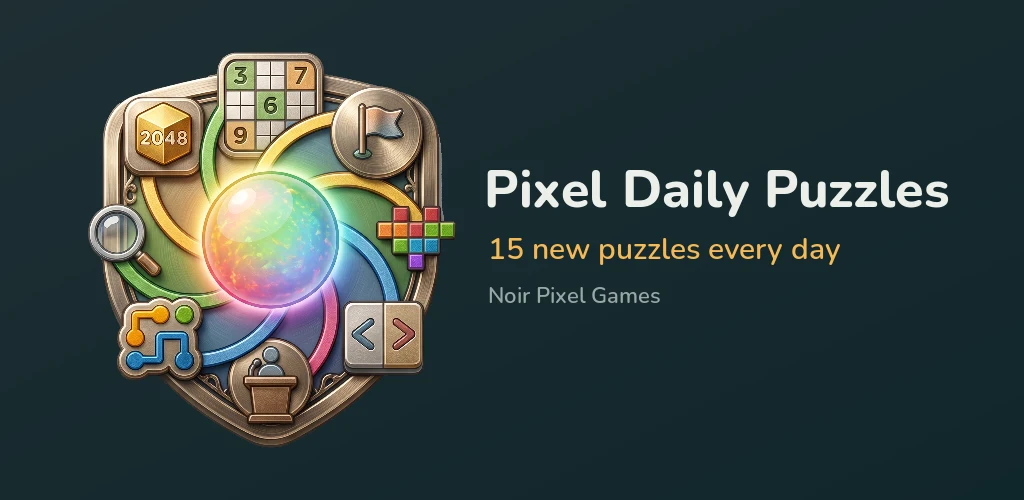
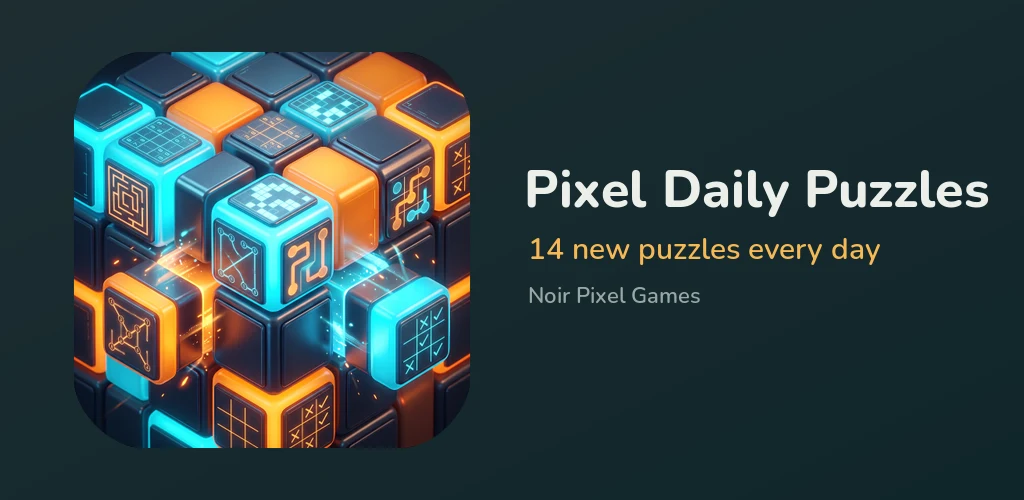
Test sayfalarını onardı, Daily Puzzles görselleri yenilendi
Testçi sayfalarında iki hata vardı, ikisi de bendendi.

Birincisi: ortak tasarıma çekerken "doc" sınıfı içerik sarmalayıcısı yerine
sabit üst barın sarmalayıcısına yazılmıştı. Menü şişiyor, metin stilsiz
kalıyordu. Sınıf doğru yere alındı.

İkincisi: CLS için eklediğim width/height nitelikleri, CSS'te height
serbest bırakılmadığı yerlerde görselleri sabit yüksekliğe zorluyordu.
Hero 620x500 çiziliyordu, doğrusu 620x304; ekran görüntüleri 168x853
çiziliyordu, doğrusu 168x297. Temel img kuralına height:auto eklendi;
object-fit kullanan kapaklar kendi kurallarıyla korunuyor.

Üç testçi sayfası da artık ana siteyle aynı yapıda: ortak üst bar, dört
sütunlu footer, testçi bağlantıları.

Pixel Daily Puzzles'ın banner, logo ve mağaza kareleri değişmişti.
Yeni feature görseli ve logo alındı; galeri 4 mağaza karesiyle yenilendi
ve site diline göre değişiyor (tr/en/de/pt, diğerleri İngilizce).
Testçi sayfalarındaki "görsel hazır olunca aç" yorum blokları açıldı,
yedek metin kutuları gerçek görsellerle değişti.

Changed region(s): [[0.0625, 0.09, 0.9688, 0.9], [0.4688, 0.48, 0.875, 0.54]]

diff --git a/pixel-daily-puzzles/test.html b/pixel-daily-puzzles/test.html
@@ -23,28 +23,22 @@
 </head>
 <body class="legacy">
 <header class="top">
-  <div class="wrap doc">
+  <div class="wrap">
     <a class="brand" href="../"><img src="../assets/icon_64.webp" alt="" width="32" height="32"><span>NOIR&nbsp;PIXEL&nbsp;<b>GAMES</b></span></a>
     <nav class="menu">
       <a href="../oyunlar.html">Oyunlar</a>
       <a href="../studyo.html">Stüdyo</a>
+      <a href="../basin.html">Basın</a>
       <a href="../legal.html">Hukuki</a>
       <a href="mailto:iletisim.noirpixel@gmail.com">İletişim</a>
     </nav>
   </div>
 </header>
 
-<div class="wrap">
+<div class="wrap doc">
 
 <header>
-  <!-- Feature grafiği hazır olunca bu bloğu şununla değiştir:
-       <img class="hero" src="../assets/pdp_feature.webp" alt="Pixel Daily Puzzles" width="1024" height="500"> -->
-  <div class="hero fallback">
-    <div>
-      <div class="name">PIXEL DAILY PUZZLES</div>
-      <div class="sub">a new set of puzzles every day · her gün yeni bölümler</div>
-    </div>
-  </div>
+  <img class="hero" src="../assets/pdp_feature.webp" alt="Pixel Daily Puzzles" width="1024" height="500">
   <h1>Pixel Daily Puzzles — join the closed test</h1>
   <p class="tag">Classic logic puzzles — sudoku, nonogram, hashi and more. Three new levels every day, one streak to keep. Android · offline · 13+</p>
   <p><a class="btn" href="https://groups.google.com/g/noirpixel-testers">Join the group and test it</a>
@@ -68,13 +62,12 @@
 </div>
 
 <h2>What is it?</h2>
-<!-- Ekran görüntüleri hazır olunca bu bloğu aç:
 <div class="shots">
-  <img src="../assets/pdp_shot_1.jpg" alt="Daily levels" width="540" height="960">
-  <img src="../assets/pdp_shot_2.jpg" alt="Daily levels" width="540" height="960">
-  <img src="../assets/pdp_shot_3.jpg" alt="Collection" width="540" height="960">
+  <img src="../assets/pdp/1_tr.webp" alt="Pixel Daily Puzzles — ana ekran" width="430" height="764" loading="lazy">
+  <img src="../assets/pdp/3_tr.webp" alt="Pixel Daily Puzzles — sudoku" width="430" height="764" loading="lazy">
+  <img src="../assets/pdp/4_tr.webp" alt="Pixel Daily Puzzles — nonogram" width="430" height="764" loading="lazy">
+  <img src="../assets/pdp/8_tr.webp" alt="Pixel Daily Puzzles — koleksiyon" width="430" height="764" loading="lazy">
 </div>
--->
 <ul class="facts">
   <li><strong>A new set of levels every day</strong> — word puzzles and pictograms, with XP, levels and a streak you won't want to break.</li>
   <li><strong>A dozen classic puzzles</strong> — sudoku, killer sudoku, futoshiki, nonogram, hashi, slitherlink, numberlink, word search, minesweeper and more.</li>
@@ -141,10 +134,48 @@
 </div>
 
 <footer>
-  Noir Pixel Games · <a href="mailto:iletisim.noirpixel@gmail.com">iletisim.noirpixel@gmail.com</a><br>
-  <a href="privacy-policy.html">Privacy / Gizlilik</a> · <a href="terms-of-service.html">Terms / Koşullar</a> · <a href="delete-data.html">Delete my data / Verilerimi sil</a><br>
-  <a href="../test.html">Pixel Roll Dungeon — closed test / kapalı test</a><br>
-  <a href="../pixel-hype-puzzle/test.html">Pixel Hype Puzzle — closed test / kapalı test</a>
+  <div class="wrap">
+    <div class="foot-grid">
+      <div>
+        <a class="brand" href="../" style="margin-bottom:12px">
+          <img src="../assets/icon_64.webp" alt="" width="64" height="64" style="width:32px;height:32px">
+          <span>NOIR&nbsp;PIXEL&nbsp;<b>GAMES</b></span>
+        </a>
+        <p class="muted" style="font-size:.9rem;max-width:30ch">Bağımsız oyun stüdyosu. Telefona sığan, tam boy oyunlar.</p>
+      </div>
+      <div>
+        <h4>Oyunlar</h4>
+        <ul>
+          <li><a href="../oyun/pixel-roll-dungeon.html">Pixel Roll Dungeon</a></li>
+          <li><a href="../oyun/pixel-daily-puzzles.html">Pixel Daily Puzzles</a></li>
+          <li><a href="../oyun/pixel-hype-puzzle.html">Pixel Hype Puzzle</a></li>
+          <li><a href="../oyunlar.html">Tüm oyunlar</a></li>
+        </ul>
+      </div>
+      <div>
+        <h4>Testçi ol</h4>
+        <ul>
+          <li><a href="../test.html">Pixel Roll Dungeon</a></li>
+          <li><a href="../pixel-daily-puzzles/test.html">Pixel Daily Puzzles</a></li>
+          <li><a href="../pixel-hype-puzzle/test.html">Pixel Hype Puzzle</a></li>
+          <li><a href="https://groups.google.com/g/noirpixel-testers">Testçi grubu</a></li>
+        </ul>
+      </div>
+      <div>
+        <h4>Hukuki</h4>
+        <ul>
+          <li><a href="../legal.html">Tüm belgeler</a></li>
+          <li><a href="../privacy-policy.html">Gizlilik politikası</a></li>
+          <li><a href="../terms-of-service.html">Kullanım koşulları</a></li>
+          <li><a href="../delete-data.html">Verilerimi sil</a></li>
+        </ul>
+      </div>
+    </div>
+    <div class="foot-bottom">
+      <span>© <span data-year>2026</span> Noir Pixel Games</span>
+      <span><a href="mailto:iletisim.noirpixel@gmail.com">iletisim.noirpixel@gmail.com</a></span>
+    </div>
+  </div>
 </footer>
 
 </div>

diff --git a/pixel-hype-puzzle/test.html b/pixel-hype-puzzle/test.html
@@ -22,27 +22,22 @@
 </head>
 <body class="legacy">
 <header class="top">
-  <div class="wrap doc">
+  <div class="wrap">
     <a class="brand" href="../"><img src="../assets/icon_64.webp" alt="" width="32" height="32"><span>NOIR&nbsp;PIXEL&nbsp;<b>GAMES</b></span></a>
     <nav class="menu">
       <a href="../oyunlar.html">Oyunlar</a>
       <a href="../studyo.html">Stüdyo</a>
+      <a href="../basin.html">Basın</a>
       <a href="../legal.html">Hukuki</a>
       <a href="mailto:iletisim.noirpixel@gmail.com">İletişim</a>
     </nav>
   </div>
 </header>
 
-<div class="wrap">
+<div class="wrap doc">
 
 <header>
-  <!-- Feature grafigi hazir olunca: <img class="hero" src="../assets/php_feature.webp" alt="Pixel Hype Puzzle" width="1024" height="500"> -->
-  <div class="hero fallback">
-    <div>
-      <div class="name">PIXEL HYPE PUZZLE</div>
-      <div class="sub">draw · guess · compare · argue</div>
-    </div>
-  </div>
+  <img class="hero" src="../assets/php_feature.webp" alt="Pixel Hype Puzzle" width="1024" height="500">
   <h1>Pixel Hype Puzzle — join the closed test</h1>
   <p class="tag">Guessing games, trivia, a shared drawing board, and live rooms against other players. Android · 13+</p>
   <p><a class="btn" href="https://groups.google.com/g/noirpixel-testers">Join the group and test it</a>
@@ -152,9 +147,48 @@
 </div>
 
 <footer>
-  Noir Pixel Games · <a href="mailto:iletisim.noirpixel@gmail.com">iletisim.noirpixel@gmail.com</a><br>
-  <a href="privacy-policy.html">Privacy / Gizlilik</a> · <a href="terms-of-service.html">Terms / Koşullar</a> · <a href="delete-data.html">Delete my data / Verilerimi sil</a><br>
-  <a href="../pixel-daily-puzzles/test.html">Pixel Daily Puzzles</a> · <a href="../test.html">Pixel Roll Dungeon</a>
+  <div class="wrap">
+    <div class="foot-grid">
+      <div>
+        <a class="brand" href="../" style="margin-bottom:12px">
+          <img src="../assets/icon_64.webp" alt="" width="64" height="64" style="width:32px;height:32px">
+          <span>NOIR&nbsp;PIXEL&nbsp;<b>GAMES</b></span>
+        </a>
+        <p class="muted" style="font-size:.9rem;max-width:30ch">Bağımsız oyun stüdyosu. Telefona sığan, tam boy oyunlar.</p>
+      </div>
+      <div>
+        <h4>Oyunlar</h4>
+        <ul>
+          <li><a href="../oyun/pixel-roll-dungeon.html">Pixel Roll Dungeon</a></li>
+          <li><a href="../oyun/pixel-daily-puzzles.html">Pixel Daily Puzzles</a></li>
+          <li><a href="../oyun/pixel-hype-puzzle.html">Pixel Hype Puzzle</a></li>
+          <li><a href="../oyunlar.html">Tüm oyunlar</a></li>
+        </ul>
+      </div>
+      <div>
+        <h4>Testçi ol</h4>
+        <ul>
+          <li><a href="../test.html">Pixel Roll Dungeon</a></li>
+          <li><a href="../pixel-daily-puzzles/test.html">Pixel Daily Puzzles</a></li>
+          <li><a href="../pixel-hype-puzzle/test.html">Pixel Hype Puzzle</a></li>
+          <li><a href="https://groups.google.com/g/noirpixel-testers">Testçi grubu</a></li>
+        </ul>
+      </div>
+      <div>
+        <h4>Hukuki</h4>
+        <ul>
+          <li><a href="../legal.html">Tüm belgeler</a></li>
+          <li><a href="../privacy-policy.html">Gizlilik politikası</a></li>
+          <li><a href="../terms-of-service.html">Kullanım koşulları</a></li>
+          <li><a href="../delete-data.html">Verilerimi sil</a></li>
+        </ul>
+      </div>
+    </div>
+    <div class="foot-bottom">
+      <span>© <span data-year>2026</span> Noir Pixel Games</span>
+      <span><a href="mailto:iletisim.noirpixel@gmail.com">iletisim.noirpixel@gmail.com</a></span>
+    </div>
+  </div>
 </footer>
 
 </div>

diff --git a/test.html b/test.html
@@ -23,18 +23,19 @@
 </head>
 <body class="legacy">
 <header class="top">
-  <div class="wrap doc">
+  <div class="wrap">
     <a class="brand" href="./"><img src="assets/icon_64.webp" alt="" width="32" height="32"><span>NOIR&nbsp;PIXEL&nbsp;<b>GAMES</b></span></a>
     <nav class="menu">
       <a href="oyunlar.html">Oyunlar</a>
       <a href="studyo.html">Stüdyo</a>
+      <a href="basin.html">Basın</a>
       <a href="legal.html">Hukuki</a>
       <a href="mailto:iletisim.noirpixel@gmail.com">İletişim</a>
     </nav>
   </div>
 </header>
 
-<div class="wrap">
+<div class="wrap doc">
 
 <header>
   <img class="hero" src="assets/feature_1024x500.png" alt="Pixel Roll Dungeon" width="1024" height="500">
@@ -123,10 +124,48 @@
 </div>
 
 <footer>
-  Noir Pixel Games · <a href="mailto:iletisim.noirpixel@gmail.com">iletisim.noirpixel@gmail.com</a><br>
-  <a href="pixel-daily-puzzles/test.html">Pixel Daily Puzzles — closed test / kapalı test</a><br>
-  <a href="pixel-hype-puzzle/test.html">Pixel Hype Puzzle — closed test / kapalı test</a><br>
-  <a href="privacy-policy.html">Privacy / Gizlilik</a> · <a href="terms-of-service.html">Terms / Koşullar</a> · <a href="delete-data.html">Delete my data / Verilerimi sil</a>
+  <div class="wrap">
+    <div class="foot-grid">
+      <div>
+        <a class="brand" href="./" style="margin-bottom:12px">
+          <img src="assets/icon_64.webp" alt="" width="64" height="64" style="width:32px;height:32px">
+          <span>NOIR&nbsp;PIXEL&nbsp;<b>GAMES</b></span>
+        </a>
+        <p class="muted" style="font-size:.9rem;max-width:30ch">Bağımsız oyun stüdyosu. Telefona sığan, tam boy oyunlar.</p>
+      </div>
+      <div>
+        <h4>Oyunlar</h4>
+        <ul>
+          <li><a href="oyun/pixel-roll-dungeon.html">Pixel Roll Dungeon</a></li>
+          <li><a href="oyun/pixel-daily-puzzles.html">Pixel Daily Puzzles</a></li>
+          <li><a href="oyun/pixel-hype-puzzle.html">Pixel Hype Puzzle</a></li>
+          <li><a href="oyunlar.html">Tüm oyunlar</a></li>
+        </ul>
+      </div>
+      <div>
+        <h4>Testçi ol</h4>
+        <ul>
+          <li><a href="test.html">Pixel Roll Dungeon</a></li>
+          <li><a href="pixel-daily-puzzles/test.html">Pixel Daily Puzzles</a></li>
+          <li><a href="pixel-hype-puzzle/test.html">Pixel Hype Puzzle</a></li>
+          <li><a href="https://groups.google.com/g/noirpixel-testers">Testçi grubu</a></li>
+        </ul>
+      </div>
+      <div>
+        <h4>Hukuki</h4>
+        <ul>
+          <li><a href="legal.html">Tüm belgeler</a></li>
+          <li><a href="privacy-policy.html">Gizlilik politikası</a></li>
+          <li><a href="terms-of-service.html">Kullanım koşulları</a></li>
+          <li><a href="delete-data.html">Verilerimi sil</a></li>
+        </ul>
+      </div>
+    </div>
+    <div class="foot-bottom">
+      <span>© <span data-year>2026</span> Noir Pixel Games</span>
+      <span><a href="mailto:iletisim.noirpixel@gmail.com">iletisim.noirpixel@gmail.com</a></span>
+    </div>
+  </div>
 </footer>
 
 </div>

diff --git a/oyun/pixel-daily-puzzles.html b/oyun/pixel-daily-puzzles.html
@@ -91,9 +91,10 @@
 
       <h2 class="reveal" style="margin-top:42px" data-i18n="shots.title">Ekran görüntüleri</h2>
       <div class="shots reveal">
-        <img src="../assets/pdp_shot_1.jpg" alt="" loading="lazy" width="540" height="960">
-        <img src="../assets/pdp_shot_2.jpg" alt="" loading="lazy" width="540" height="960">
-        <img src="../assets/pdp_shot_3.jpg" alt="" loading="lazy" width="540" height="960">
+        <img src="../assets/pdp/1_tr.webp" data-img-src="../assets/pdp/1_{dil}.webp" alt="Pixel Daily Puzzles — Ana ekran" width="430" height="764" loading="lazy">
+        <img src="../assets/pdp/3_tr.webp" data-img-src="../assets/pdp/3_{dil}.webp" alt="Pixel Daily Puzzles — Sudoku" width="430" height="764" loading="lazy">
+        <img src="../assets/pdp/4_tr.webp" data-img-src="../assets/pdp/4_{dil}.webp" alt="Pixel Daily Puzzles — Nonogram" width="430" height="764" loading="lazy">
+        <img src="../assets/pdp/8_tr.webp" data-img-src="../assets/pdp/8_{dil}.webp" alt="Pixel Daily Puzzles — Koleksiyon" width="430" height="764" loading="lazy">
       </div>
 
       <div class="contact-box reveal" style="margin-top:36px">

diff --git a/assets/site.js b/assets/site.js
@@ -221,6 +221,15 @@
       }
       document.documentElement.lang = lang;
       pick.value = lang;
+
+      // dile gore degisen gorseller (magaza kareleri yalnizca tr/en/de/pt var)
+      var imgDil = ({ tr: "tr", en: "en", de: "de", pt: "pt_br" })[lang] || "en";
+      var resimler = document.querySelectorAll("[data-img-src]");
+      for (var ri = 0; ri < resimler.length; ri++) {
+        var kalip = resimler[ri].getAttribute("data-img-src");
+        var yeniYol = kalip.replace("{dil}", imgDil);
+        if (resimler[ri].getAttribute("src") !== yeniYol) resimler[ri].setAttribute("src", yeniYol);
+      }
       var t = document.querySelector("[data-type]");
       if (t && t.getAttribute("data-type-" + lang)) {
         t.setAttribute("data-type", t.getAttribute("data-type-" + lang));

diff --git a/basin.html b/basin.html
@@ -103,7 +103,7 @@
           </div>
           <div class="asset">
             <img src="assets/pdp_feature.webp" alt="" width="64" height="64" loading="lazy">
-            <div class="n"><b data-i18n="assets.pdp">Pixel Daily Puzzles görselleri</b><span>pdp_feature · pdp_shot_1–3</span></div>
+            <div class="n"><b data-i18n="assets.pdp">Pixel Daily Puzzles görselleri</b><span>pdp_feature · 4 mağaza karesi</span></div>
             <a class="btn ghost sm" href="oyun/pixel-daily-puzzles.html" data-i18n="assets.see">Gör</a>
           </div>
           <div class="asset">

diff --git a/assets/site.css b/assets/site.css
@@ -68,6 +68,11 @@ body::after{
 }
 
 img,svg,video{max-width:100%; display:block}
+/* HTML width/height nitelikleri CLS icin sart; ama yukseklik CSS ile
+   serbest birakilmazsa gorsel sabit yuksekliğe zorlanip eziliyor.
+   Yukseklik gerekli olan yerlerde (object-fit kullanan kapaklar) daha
+   ozel kurallar bunu zaten eziyor. */
+img{height:auto}
 a{color:var(--gold); text-decoration:none}
 a:hover{text-decoration:underline}
 :focus-visible{outline:2px solid var(--gold); outline-offset:3px; border-radius:6px}
